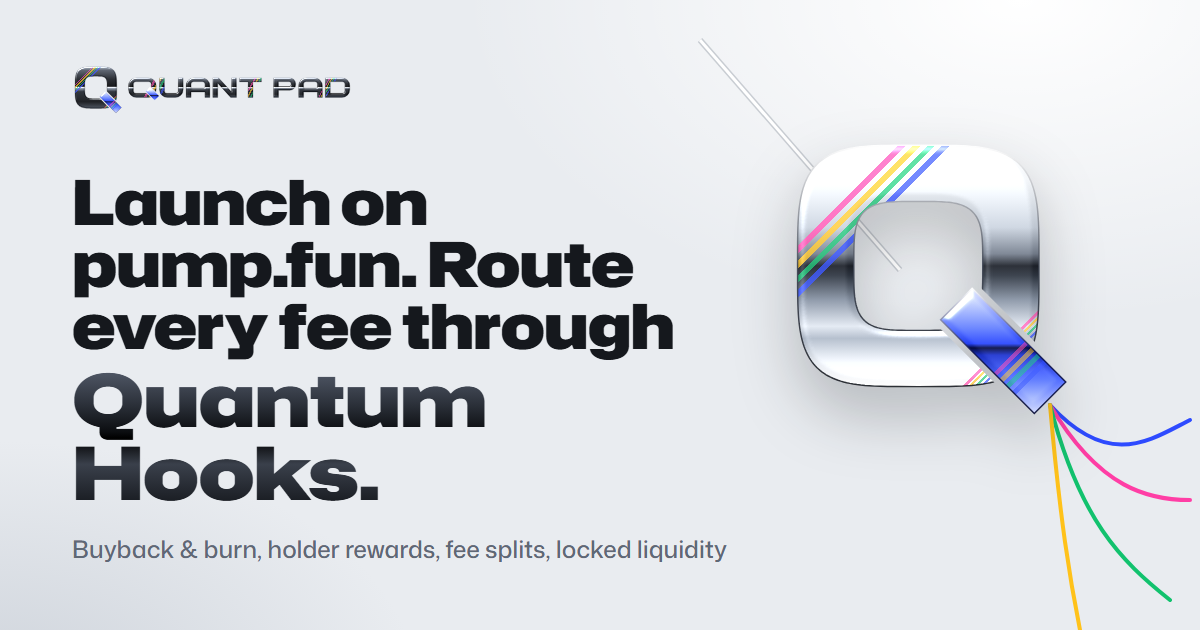
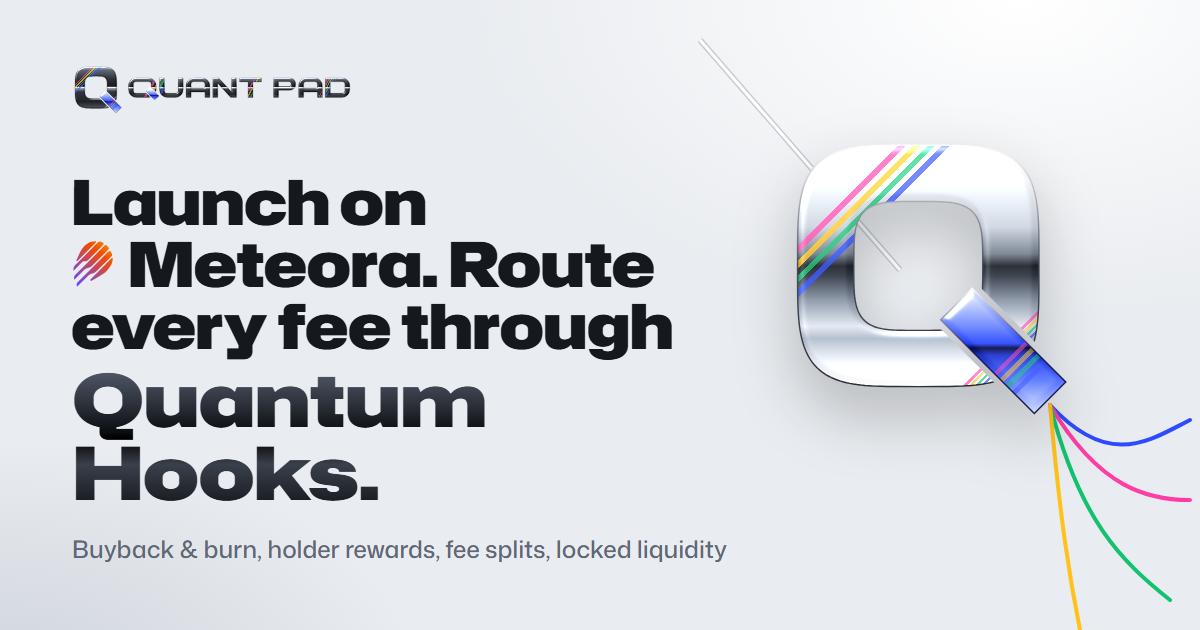
Say Meteora in the link-preview image, with the Meteora mark
public/og.png still read "Launch on pump.fun." The new one reads "Launch on [Meteora mark]
Meteora. Route every fee through Quantum Hooks." in the same Hubot Sans settings, over a plate
of the old image with its first three headline lines removed, so the chrome Q, lockup and
"Quantum Hooks." stay as they were. social/og/og.html is the template; render it with
node social/render.mjs social/og/og.html 1200 630 public/og.png.

diff --git a/social/og/og.html b/social/og/og.html
@@ -1,0 +1,32 @@
+<!doctype html>
+<html>
+<head>
+<meta charset="utf-8">
+<!-- The link-preview image (public/og.png, og:image in index.html). plate.png is the earlier og.png
+     with the first three headline lines removed: the lockup, chrome Q, "Quantum Hooks." and the
+     sub-line stay baked in, and the lines above them are set here in the same Hubot Sans settings.
+     Render: node social/render.mjs social/og/og.html 1200 630 public/og.png -->
+<style>
+  @font-face { font-family: 'Hubot Sans'; src: url('../../node_modules/@fontsource-variable/hubot-sans/files/hubot-sans-latin-wdth-normal.woff2') format('woff2'); font-weight: 200 900; font-stretch: 75% 125%; }
+  html, body { margin: 0; width: 1200px; height: 630px; overflow: hidden; background: #e9ecf0; }
+  .plate { position: absolute; inset: 0; width: 1200px; height: 630px; }
+  h1 {
+    position: absolute; left: 71px; top: 170px; margin: 0;
+    font-family: 'Hubot Sans'; font-weight: 900; font-stretch: 112%; font-size: 62px;
+    line-height: 62px; letter-spacing: -0.02em; color: #15181d; white-space: nowrap;
+  }
+  h1 span { display: block; }
+  /* The symbol's ink fills about 0.15–0.85 of its box across and the cap height down: pull it
+     left onto the text edge and keep a word-space gap to the M. */
+  h1 img { width: 0.9em; height: 0.9em; vertical-align: -0.08em; margin: 0 0.1em 0 -0.09em; }
+</style>
+</head>
+<body>
+<img class="plate" src="plate.png" alt="">
+<h1>
+  <span>Launch on</span>
+  <span><img src="../../public/partners/meteora/symbol.svg" alt="">Meteora. Route</span>
+  <span>every fee through</span>
+</h1>
+</body>
+</html>
